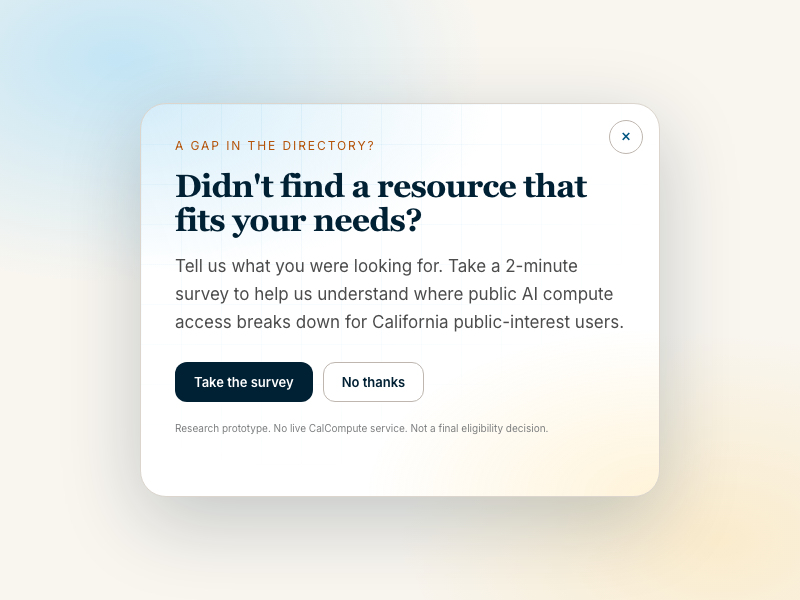
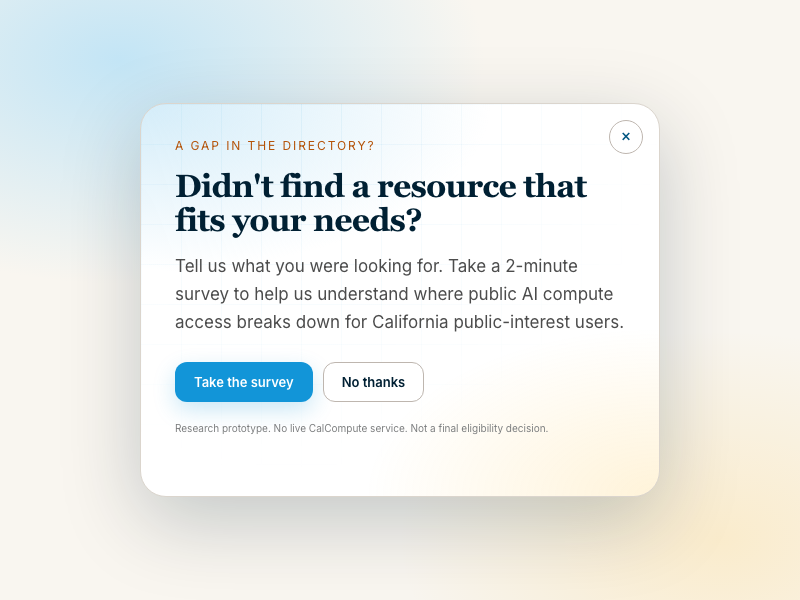
Make primary CTA UC blue and bump cache version

Changed region(s): [[0.2188, 0.6, 0.4062, 0.69]]

diff --git a/index.html b/index.html
@@ -5,8 +5,8 @@
   <meta name="viewport" content="width=device-width, initial-scale=1">
   <title>California Compute Directory — CalCompute Access Lab</title>
   <meta name="description" content="Find AI computing, data and training programs that you may be able to use in California.">
-  <link rel="stylesheet" href="assets/styles.css?v=20261125">
-  <link rel="stylesheet" href="assets/theme-calcompute.css?v=20261125">
+  <link rel="stylesheet" href="assets/styles.css?v=20261126">
+  <link rel="stylesheet" href="assets/theme-calcompute.css?v=20261126">
 </head>
 <body>
 
@@ -148,7 +148,7 @@
   Can't find a resource?
 </button>
 
-<script src="assets/popup.js?v=20261125"></script>
-<script src="assets/directory.js?v=20261125"></script>
+<script src="assets/popup.js?v=20261126"></script>
+<script src="assets/directory.js?v=20261126"></script>
 </body>
 </html>

diff --git a/survey/index.html b/survey/index.html
@@ -5,8 +5,8 @@
   <meta name="viewport" content="width=device-width, initial-scale=1">
   <title>CalCompute Access Survey — Research prototype</title>
   <meta name="description" content="A 2-minute survey about access to public AI compute for California public-interest users.">
-  <link rel="stylesheet" href="../assets/styles.css?v=20261125">
-  <link rel="stylesheet" href="../assets/theme-calcompute.css?v=20261125">
+  <link rel="stylesheet" href="../assets/styles.css?v=20261126">
+  <link rel="stylesheet" href="../assets/theme-calcompute.css?v=20261126">
 </head>
 <body>
 
@@ -278,7 +278,7 @@
   </div>
 </footer>
 
-<script src="../assets/matrix.js?v=20261125"></script>
-<script src="../assets/survey.js?v=20261125"></script>
+<script src="../assets/matrix.js?v=20261126"></script>
+<script src="../assets/survey.js?v=20261126"></script>
 </body>
 </html>

diff --git a/popup.html b/popup.html
@@ -4,7 +4,7 @@
   <meta charset="utf-8">
   <meta name="viewport" content="width=device-width, initial-scale=1">
   <title>CalCompute — Did you find what you needed?</title>
-  <link rel="stylesheet" href="assets/styles.css?v=20261125">
+  <link rel="stylesheet" href="assets/styles.css?v=20261126">
   <style>
     html, body.popup-only {
       background: #070b18 !important;
@@ -45,7 +45,7 @@
     }
     .popup-standalone .popup-foot a { color: #22d3ee; text-decoration: none; }
   </style>
-  <link rel="stylesheet" href="assets/theme-calcompute.css?v=20261125">
+  <link rel="stylesheet" href="assets/theme-calcompute.css?v=20261126">
 </head>
 <body class="popup-only">
 

diff --git a/assets/theme-calcompute.css b/assets/theme-calcompute.css
@@ -95,11 +95,11 @@ h1, .dir-hero h1 { color: var(--cal-blue-deep); }
 .searchbar input::placeholder { color: var(--cal-subtle); }
 
 .btn-primary {
-  background: var(--cal-blue-deep);
+  background: var(--cal-blue);
   color: #ffffff;
-  box-shadow: none;
+  box-shadow: 0 8px 22px rgba(18, 149, 216, 0.22);
 }
-.btn-primary:hover { background: var(--cal-blue-dark); box-shadow: none; }
+.btn-primary:hover { background: var(--cal-blue-dark); box-shadow: 0 10px 26px rgba(0, 85, 129, 0.28); }
 .btn-ghost {
   background: #ffffff;
   border-color: var(--cal-border-strong);
